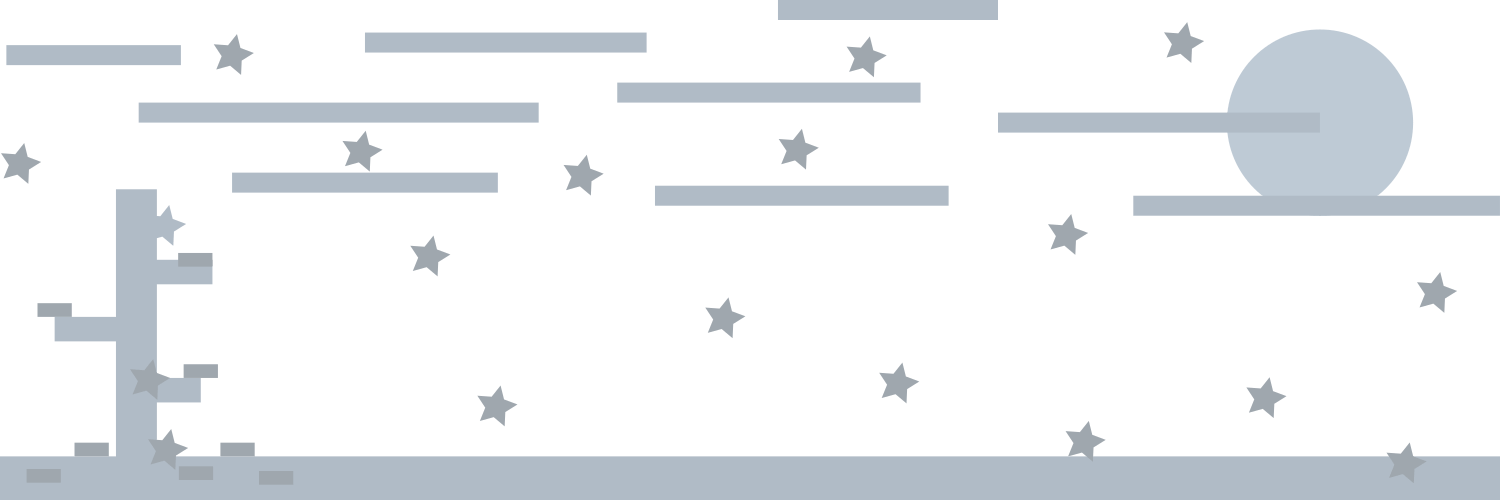
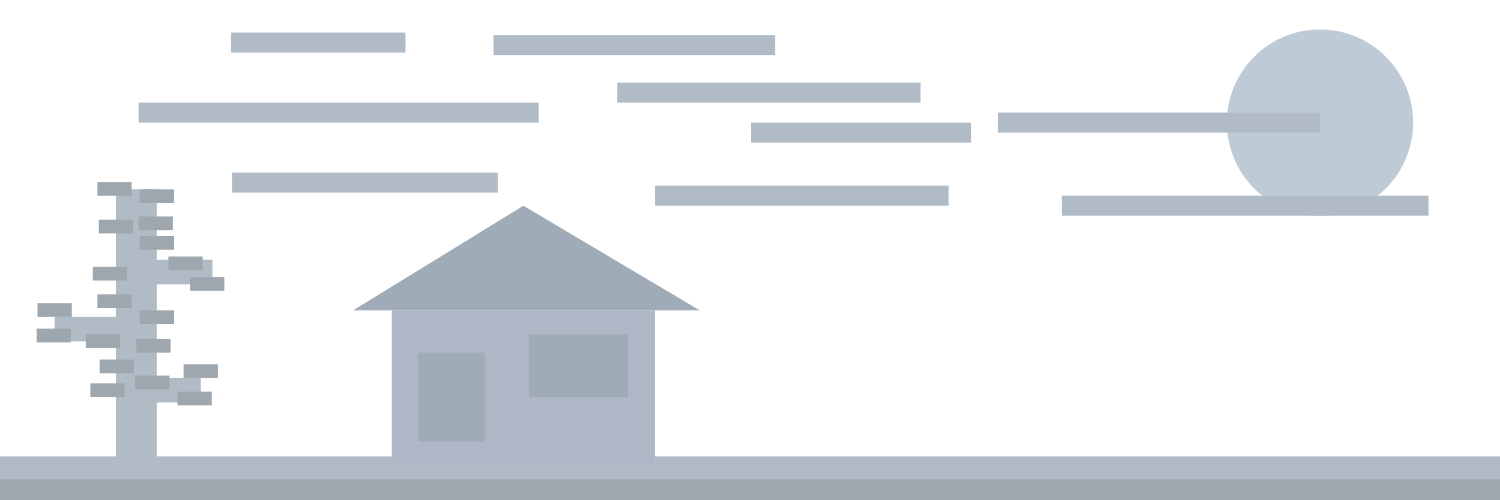
update

diff --git a/index.html b/index.html
@@ -193,7 +193,7 @@ top: -25px;
 
 <div class="op wrapperSmall3 tRight">
 <span class="xSmall">Status:</span>
-<span class="smaller"><span class="medium ico zero">❄</span> Winter.</span>
+<span class="smaller"><span class="medium ico zero">🌼</span> Spring.</span>
 </div>
 
 </div>
